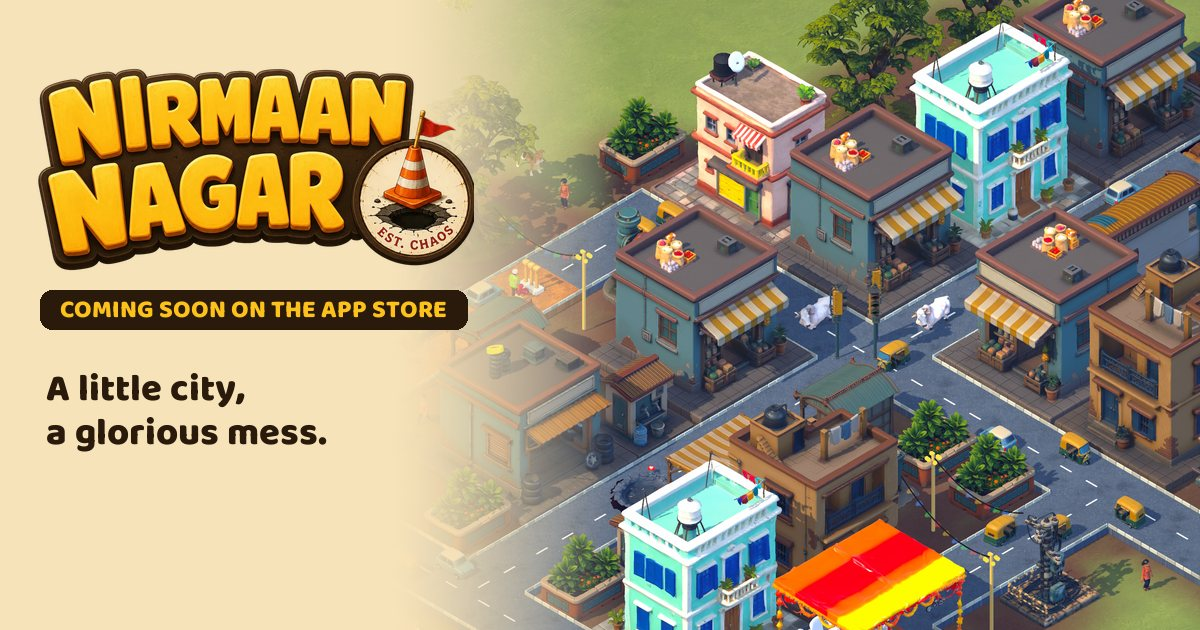
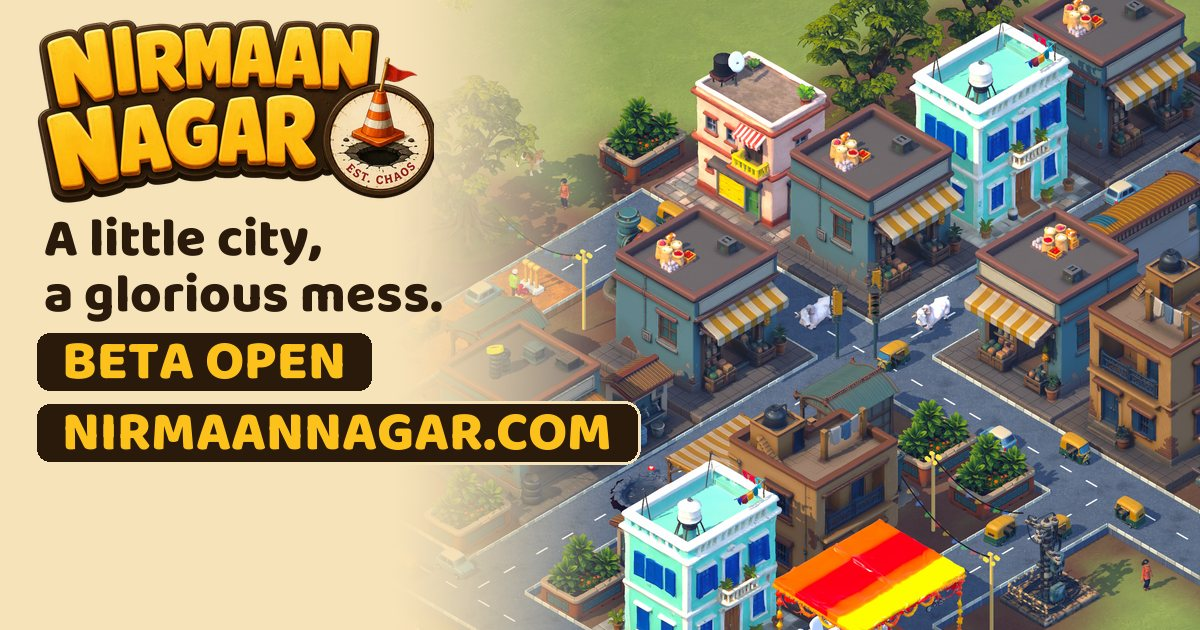
Beta open: the share card, the description, a phone's first line, the sitemap and the game's data

Changed region(s): [[0.0308, 0.0302, 0.555, 0.754]]

diff --git a/index.html b/index.html
@@ -8,25 +8,26 @@
 <meta name="color-scheme" content="light dark">
 <meta name="theme-color" content="#f4e2b8" media="(prefers-color-scheme: light)">
 <meta name="theme-color" content="#21150a" media="(prefers-color-scheme: dark)">
-<title>Nirmaan Nagar · A little city, a glorious mess</title>
-<meta name="description" content="Build your own wonderfully dysfunctional Indian city: potholes, confused signals, a bridge to eventually and a cow with the right of way. Coming soon to iPhone and iPad.">
+<title>Nirmaan Nagar: an Indian city-builder game</title>
+<meta name="description" content="The beta is open: build a town of potholes, confused signals and a cow with the right of way. A cosy Indian city builder for your phone.">
 <link rel="canonical" href="https://nirmaannagar.com/">
 <meta property="og:type" content="website">
 <meta property="og:site_name" content="Nirmaan Nagar">
 <meta property="og:locale" content="en_IN">
 <meta property="og:url" content="https://nirmaannagar.com/">
-<meta property="og:title" content="Nirmaan Nagar">
-<meta property="og:description" content="Build your own wonderfully dysfunctional Indian city: potholes, confused signals, a bridge to eventually and a cow with the right of way. Coming soon to iPhone and iPad.">
-<meta property="og:image" content="https://nirmaannagar.com/assets/og.jpg">
+<meta property="og:title" content="Nirmaan Nagar: an Indian city-builder game">
+<meta property="og:description" content="The beta is open: build a town of potholes, confused signals and a cow with the right of way. A cosy Indian city builder for your phone.">
+<meta property="og:image" content="https://nirmaannagar.com/assets/og-2.jpg">
 <meta property="og:image:type" content="image/jpeg">
 <meta property="og:image:width" content="1200">
 <meta property="og:image:height" content="630">
-<meta property="og:image:alt" content="Nirmaan Nagar, est. chaos: the yellow logo, “Coming soon on the App Store” and “A little city, a glorious mess.”, beside a busy junction in the game, cows sitting among the shops and autos.">
+<meta property="og:image:alt" content="Nirmaan Nagar, est. chaos: the yellow logo and “A little city, a glorious mess.” with “Beta open” and “nirmaannagar.com” on plates, beside a busy junction in the game, cows sitting among the shops and autos.">
 <meta name="twitter:card" content="summary_large_image">
-<meta name="twitter:title" content="Nirmaan Nagar">
-<meta name="twitter:description" content="Build your own wonderfully dysfunctional Indian city: potholes, confused signals, a bridge to eventually and a cow with the right of way. Coming soon to iPhone and iPad.">
-<meta name="twitter:image" content="https://nirmaannagar.com/assets/og.jpg">
-<meta name="twitter:image:alt" content="Nirmaan Nagar, est. chaos: the yellow logo, “Coming soon on the App Store” and “A little city, a glorious mess.”, beside a busy junction in the game, cows sitting among the shops and autos.">
+<meta name="twitter:title" content="Nirmaan Nagar: an Indian city-builder game">
+<meta name="twitter:description" content="The beta is open: build a town of potholes, confused signals and a cow with the right of way. A cosy Indian city builder for your phone.">
+<meta name="twitter:image" content="https://nirmaannagar.com/assets/og-2.jpg">
+<meta name="twitter:image:alt" content="Nirmaan Nagar, est. chaos: the yellow logo and “A little city, a glorious mess.” with “Beta open” and “nirmaannagar.com” on plates, beside a busy junction in the game, cows sitting among the shops and autos.">
+<script type="application/ld+json">{"@context": "https://schema.org", "@type": "VideoGame", "name": "Nirmaan Nagar", "alternateName": "Nirman Nagar", "url": "https://nirmaannagar.com/", "description": "The beta is open: build a town of potholes, confused signals and a cow with the right of way. A cosy Indian city builder for your phone.", "image": "https://nirmaannagar.com/assets/og-2.jpg", "genre": ["City builder", "Simulation"], "applicationCategory": "Game", "gamePlatform": ["Android", "iOS"], "operatingSystem": "Android, iOS", "inLanguage": "en", "sameAs": ["https://www.instagram.com/nirmaannagar/", "https://www.youtube.com/@nirmaannagar", "https://x.com/nirmaannagar"]}</script>
 <link rel="icon" href="assets/icon-64.png" sizes="64x64" type="image/png">
 <link rel="apple-touch-icon" href="assets/apple-touch-icon.png">
 <link rel="preload" href="assets/fonts/baloo2-latin.woff2" as="font" type="font/woff2" crossorigin>
@@ -45,8 +46,9 @@
 <div class="story" id="story">
 <section class="stage" id="town" aria-labelledby="hero-title">
 <div class="stage-copy">
-<h1 id="hero-title" class="logo"><img src="assets/logo.webp" width="880" height="436" alt="Nirmaan Nagar, est. chaos" fetchpriority="high"></h1>
+<h1 id="hero-title" class="logo"><img src="assets/logo.webp" width="880" height="436" alt="" fetchpriority="high"><span class="visually-hidden">Nirmaan Nagar: an Indian city-builder game</span></h1>
 <p class="tagline">A little city, a&nbsp;glorious&nbsp;mess.</p>
+<p class="what">An Indian city-builder game. Turn a pothole into a lake.</p>
 <p class="lede">Build your own wonderfully dysfunctional Indian city, then watch your little town cope.</p>
 <p class="stage-cta"><a class="button launch-cta" href="#launch">Join the beta</a> <span class="soon-for">Beta open on Android and iPhone</span></p>
 <p class="stage-hint" hidden>Tap the pothole, the cow, an auto or the signal.</p>
@@ -123,7 +125,7 @@
 <p>The beta is open: build your own mess first and tell us what breaks. No ads, and you can play without sending us anything.</p>
 <ul class="beta-steps"><li><strong>Android:</strong> <a class="button" href="https://groups.google.com/g/nirmaan-nagar-beta" rel="noopener">1. Join the testers group</a> <a class="button button-quiet" href="https://play.google.com/apps/testing/com.nirmaannagar.game" rel="noopener">2. Become a tester</a> <span class="small">with the same Google account, on your Android phone, then install Nirmaan Nagar from Google Play.</span></li><li><strong>iPhone and iPad:</strong> <a class="button" href="https://testflight.apple.com/join/UcZEMs74" rel="noopener">Join with TestFlight</a> <span class="small">Apple&#8217;s free test app installs the game.</span></li></ul>
 <p class="small">Testers can leave any time. What the sign-up shares with us is on the <a href="privacy/#if-you-join-a-test">privacy page</a>.</p>
-<p>Not testing? <a class="button button-quiet" href="mailto:support@nirmaannagar.com?subject=Tell%20me%20when%20Nirmaan%20Nagar%20launches&amp;body=Please%20send%20me%20one%20message%20when%20Nirmaan%20Nagar%20is%20on%20the%20App%20Store.">Get a message at launch</a></p>
+<p>Not testing? <a class="button button-quiet" href="mailto:support@nirmaannagar.com?subject=Tell%20me%20when%20Nirmaan%20Nagar%20launches&amp;body=Please%20send%20me%20one%20message%20when%20Nirmaan%20Nagar%20launches.">Get a message at launch</a></p>
 <p class="small">The button writes us one email; we use your address only to send you one message when the game is out.</p>
 </div>
 </div>

diff --git a/support/index.html b/support/index.html
@@ -17,16 +17,16 @@
 <meta property="og:url" content="https://nirmaannagar.com/support/">
 <meta property="og:title" content="Support · Nirmaan Nagar">
 <meta property="og:description" content="Answers about Nirmaan Nagar: playing offline, saving your town, Missions with friends and your data. Questions and bugs: support@nirmaannagar.com.">
-<meta property="og:image" content="https://nirmaannagar.com/assets/og.jpg">
+<meta property="og:image" content="https://nirmaannagar.com/assets/og-2.jpg">
 <meta property="og:image:type" content="image/jpeg">
 <meta property="og:image:width" content="1200">
 <meta property="og:image:height" content="630">
-<meta property="og:image:alt" content="Nirmaan Nagar, est. chaos: the yellow logo, “Coming soon on the App Store” and “A little city, a glorious mess.”, beside a busy junction in the game, cows sitting among the shops and autos.">
+<meta property="og:image:alt" content="Nirmaan Nagar, est. chaos: the yellow logo and “A little city, a glorious mess.” with “Beta open” and “nirmaannagar.com” on plates, beside a busy junction in the game, cows sitting among the shops and autos.">
 <meta name="twitter:card" content="summary_large_image">
 <meta name="twitter:title" content="Support · Nirmaan Nagar">
 <meta name="twitter:description" content="Answers about Nirmaan Nagar: playing offline, saving your town, Missions with friends and your data. Questions and bugs: support@nirmaannagar.com.">
-<meta name="twitter:image" content="https://nirmaannagar.com/assets/og.jpg">
-<meta name="twitter:image:alt" content="Nirmaan Nagar, est. chaos: the yellow logo, “Coming soon on the App Store” and “A little city, a glorious mess.”, beside a busy junction in the game, cows sitting among the shops and autos.">
+<meta name="twitter:image" content="https://nirmaannagar.com/assets/og-2.jpg">
+<meta name="twitter:image:alt" content="Nirmaan Nagar, est. chaos: the yellow logo and “A little city, a glorious mess.” with “Beta open” and “nirmaannagar.com” on plates, beside a busy junction in the game, cows sitting among the shops and autos.">
 <link rel="icon" href="../assets/icon-64.png" sizes="64x64" type="image/png">
 <link rel="apple-touch-icon" href="../assets/apple-touch-icon.png">
 <link rel="preload" href="../assets/fonts/baloo2-latin.woff2" as="font" type="font/woff2" crossorigin>

diff --git a/delete/index.html b/delete/index.html
@@ -17,16 +17,16 @@
 <meta property="og:url" content="https://nirmaannagar.com/delete/">
 <meta property="og:title" content="Delete your data · Nirmaan Nagar">
 <meta property="og:description" content="How to delete what Nirmaan Nagar keeps online, in the game or by email.">
-<meta property="og:image" content="https://nirmaannagar.com/assets/og.jpg">
+<meta property="og:image" content="https://nirmaannagar.com/assets/og-2.jpg">
 <meta property="og:image:type" content="image/jpeg">
 <meta property="og:image:width" content="1200">
 <meta property="og:image:height" content="630">
-<meta property="og:image:alt" content="Nirmaan Nagar, est. chaos: the yellow logo, “Coming soon on the App Store” and “A little city, a glorious mess.”, beside a busy junction in the game, cows sitting among the shops and autos.">
+<meta property="og:image:alt" content="Nirmaan Nagar, est. chaos: the yellow logo and “A little city, a glorious mess.” with “Beta open” and “nirmaannagar.com” on plates, beside a busy junction in the game, cows sitting among the shops and autos.">
 <meta name="twitter:card" content="summary_large_image">
 <meta name="twitter:title" content="Delete your data · Nirmaan Nagar">
 <meta name="twitter:description" content="How to delete what Nirmaan Nagar keeps online, in the game or by email.">
-<meta name="twitter:image" content="https://nirmaannagar.com/assets/og.jpg">
-<meta name="twitter:image:alt" content="Nirmaan Nagar, est. chaos: the yellow logo, “Coming soon on the App Store” and “A little city, a glorious mess.”, beside a busy junction in the game, cows sitting among the shops and autos.">
+<meta name="twitter:image" content="https://nirmaannagar.com/assets/og-2.jpg">
+<meta name="twitter:image:alt" content="Nirmaan Nagar, est. chaos: the yellow logo and “A little city, a glorious mess.” with “Beta open” and “nirmaannagar.com” on plates, beside a busy junction in the game, cows sitting among the shops and autos.">
 <link rel="icon" href="../assets/icon-64.png" sizes="64x64" type="image/png">
 <link rel="apple-touch-icon" href="../assets/apple-touch-icon.png">
 <link rel="preload" href="../assets/fonts/baloo2-latin.woff2" as="font" type="font/woff2" crossorigin>

diff --git a/privacy/index.html b/privacy/index.html
@@ -17,16 +17,16 @@
 <meta property="og:url" content="https://nirmaannagar.com/privacy/">
 <meta property="og:title" content="Privacy policy · Nirmaan Nagar">
 <meta property="og:description" content="What Nirmaan Nagar keeps, why, for how long, and how to delete it.">
-<meta property="og:image" content="https://nirmaannagar.com/assets/og.jpg">
+<meta property="og:image" content="https://nirmaannagar.com/assets/og-2.jpg">
 <meta property="og:image:type" content="image/jpeg">
 <meta property="og:image:width" content="1200">
 <meta property="og:image:height" content="630">
-<meta property="og:image:alt" content="Nirmaan Nagar, est. chaos: the yellow logo, “Coming soon on the App Store” and “A little city, a glorious mess.”, beside a busy junction in the game, cows sitting among the shops and autos.">
+<meta property="og:image:alt" content="Nirmaan Nagar, est. chaos: the yellow logo and “A little city, a glorious mess.” with “Beta open” and “nirmaannagar.com” on plates, beside a busy junction in the game, cows sitting among the shops and autos.">
 <meta name="twitter:card" content="summary_large_image">
 <meta name="twitter:title" content="Privacy policy · Nirmaan Nagar">
 <meta name="twitter:description" content="What Nirmaan Nagar keeps, why, for how long, and how to delete it.">
-<meta name="twitter:image" content="https://nirmaannagar.com/assets/og.jpg">
-<meta name="twitter:image:alt" content="Nirmaan Nagar, est. chaos: the yellow logo, “Coming soon on the App Store” and “A little city, a glorious mess.”, beside a busy junction in the game, cows sitting among the shops and autos.">
+<meta name="twitter:image" content="https://nirmaannagar.com/assets/og-2.jpg">
+<meta name="twitter:image:alt" content="Nirmaan Nagar, est. chaos: the yellow logo and “A little city, a glorious mess.” with “Beta open” and “nirmaannagar.com” on plates, beside a busy junction in the game, cows sitting among the shops and autos.">
 <link rel="icon" href="../assets/icon-64.png" sizes="64x64" type="image/png">
 <link rel="apple-touch-icon" href="../assets/apple-touch-icon.png">
 <link rel="preload" href="../assets/fonts/baloo2-latin.woff2" as="font" type="font/woff2" crossorigin>

diff --git a/assets/site.css b/assets/site.css
@@ -217,6 +217,7 @@ min-height: max(600px, calc(100svh - 66px));
 .logo img { display: block; width: 100%; height: auto; filter: drop-shadow(0 6px 0 rgba(42, 26, 11, .16)); transform-origin: 45% 70%; }
 .tagline { font-family: var(--display); font-weight: 800; font-size: clamp(1.6rem, 3vw, 2.3rem); line-height: 1.1; margin: .2em 0 .3em; text-wrap: balance; }
 .lede { font-size: 1.12rem; line-height: 1.55; margin: 0 0 1.2em; color: var(--ink); }
+.what { display: none; }
 .stage-cta { display: flex; flex-wrap: wrap; align-items: center; gap: 10px 14px; margin: 0 0 1em; }
 .soon-for { font-family: var(--display); font-weight: 700; font-size: 1rem; color: var(--ink-2); }
 .stage-hint { display: inline-flex; align-items: center; gap: .5em; margin: 0; font-family: var(--display); font-weight: 700; font-size: .98rem; color: var(--ink-2); }
@@ -230,6 +231,7 @@ min-height: max(600px, calc(100svh - 66px));
 .stage-copy > * { max-width: min(100%, 24rem); }
 .logo { max-width: min(78%, 17rem); }
 .stage .lede { display: none; }
+.stage .what { display: block; margin: 0 0 .8em; font-size: 1.06rem; line-height: 1.4; text-wrap: balance; }
 }
 @media (max-width: 599px) { .stage-still { aspect-ratio: 1 / 1; } }
 @media (min-width: 900px) and (max-height: 520px) { .logo { max-width: 16rem; } .stage-copy > * { max-width: 22rem; } }
